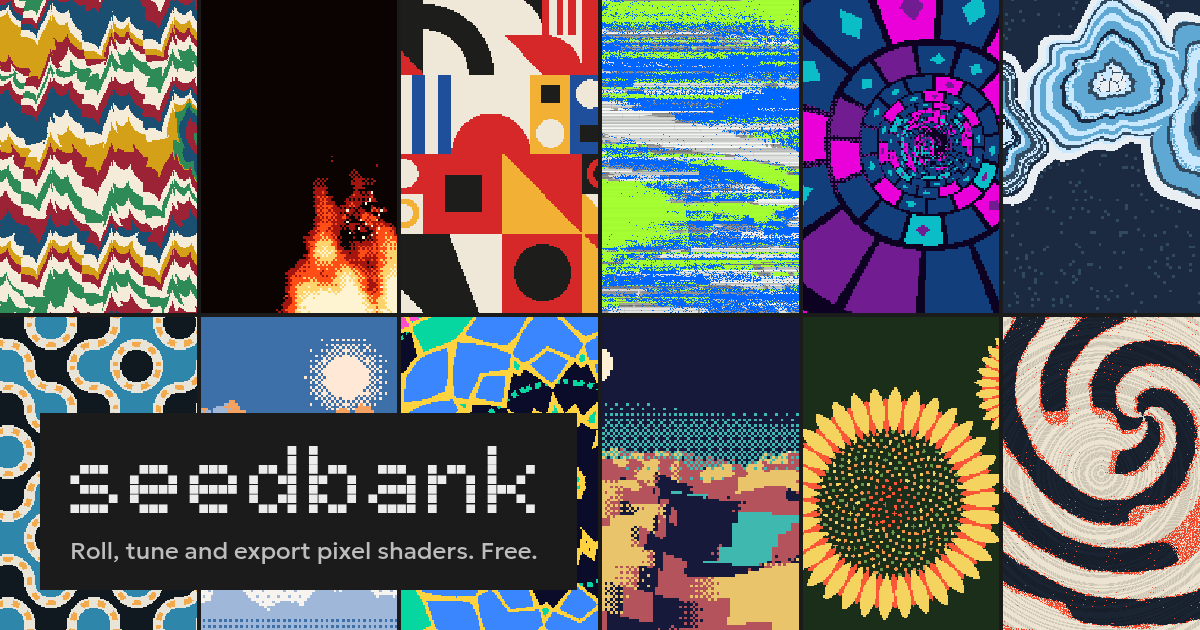
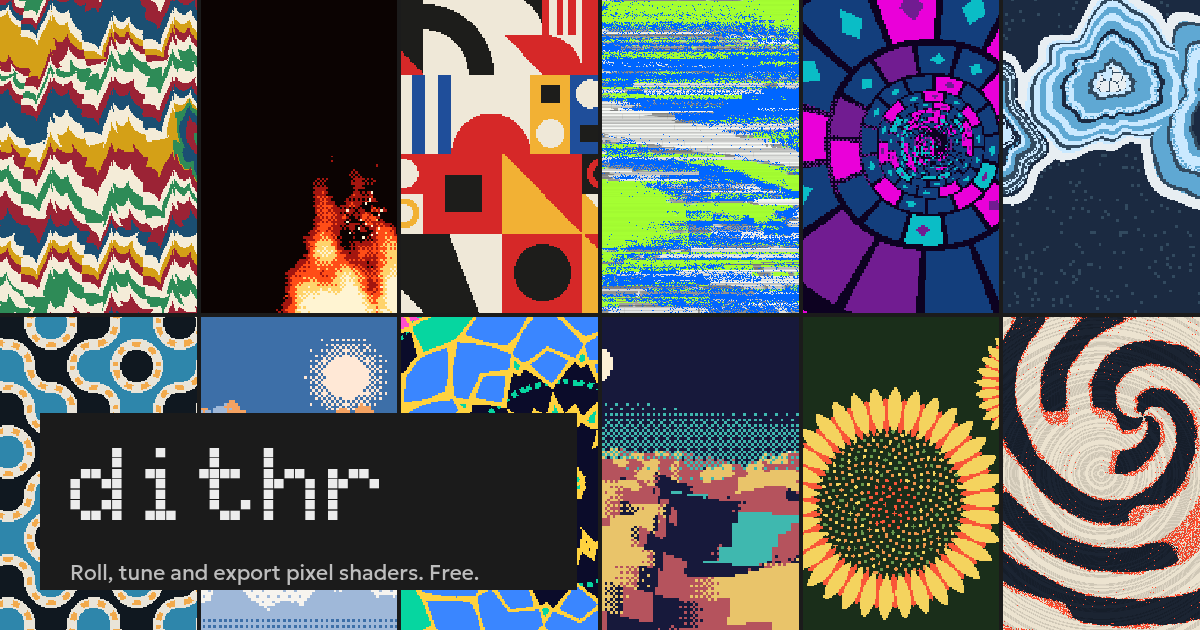
Rename the public product to Dithr
Wordmark, titles, share image, README and docs. Internal module names and the
saved-recipe storage key are unchanged so exports and saved designs keep working.

Changed region(s): [[0.0617, 0.6937, 0.4625, 0.9349]]

diff --git a/app/page.tsx b/app/page.tsx
@@ -247,7 +247,7 @@ export default function Studio() {
     <header className="topbar">
       {/* A full reload is intentional: it starts a fresh session with a new random study. */}
       {/* eslint-disable-next-line @next/next/no-html-link-for-pages */}
-      <a className="wordmark" href="/" aria-label="Shader Seedbank, start over"><span className="wordmark-pixels" aria-hidden="true">{Array.from({ length: 9 }, (_, i) => <i key={i}/>)}</span><span className="wordmark-text">seedbank</span></a>
+      <a className="wordmark" href="/" aria-label="Dithr, start over"><span className="wordmark-pixels" aria-hidden="true">{Array.from({ length: 9 }, (_, i) => <i key={i}/>)}</span><span className="wordmark-text">dithr</span></a>
       <nav className="topnav" aria-label="Browse">
         <button className="btn" aria-expanded={drawer === 'studies'} onClick={() => setDrawer('studies')}>Studies <span className="count">{presets.length}</span></button>
         <button className="btn" aria-expanded={drawer === 'palettes'} onClick={() => setDrawer('palettes')}>Palettes <span className="count">{palettePresets.length}</span></button>

diff --git a/app/layout.tsx b/app/layout.tsx
@@ -5,9 +5,9 @@ import './studio.css';
 const site = process.env.SEEDBANK_SITE_URL ?? (process.env.VERCEL_PROJECT_PRODUCTION_URL ? `https://${process.env.VERCEL_PROJECT_PRODUCTION_URL}` : undefined);
 export const metadata: Metadata = {
   ...(site ? { metadataBase: new URL(site) } : {}),
-  title: 'Shader Seedbank: roll and export pixel shaders',
+  title: 'Dithr: roll and export pixel shaders',
   icons: { icon: '/favicon.svg' },
-  openGraph: { title: 'Shader Seedbank', description: 'Roll, tune and export crisp-pixel animated shaders. Free: PNG, video, React or plain JavaScript.', images: [{ url: '/og.png', width: 1200, height: 630 }] },
+  openGraph: { title: 'Dithr', description: 'Roll, tune and export crisp-pixel animated shaders. Free: PNG, video, React or plain JavaScript.', images: [{ url: '/og.png', width: 1200, height: 630 }] },
   twitter: { card: 'summary_large_image', images: ['/og.png'] },
   description: 'A free generator for animated, crisp-pixel shaders. Roll a study and a palette, tune it, then export PNG, video, React or plain JavaScript. Ninety studies and 729 palettes.',
 };

diff --git a/app/demos/page.tsx b/app/demos/page.tsx
@@ -69,8 +69,8 @@ surface.render(recipe.time); // the curated frozen moment
   return <div className="studio context-page" style={themeStyle}>
     <header className="topbar">
       {/* eslint-disable-next-line @next/next/no-html-link-for-pages */}
-      <a className="wordmark" href="/" aria-label="Shader Seedbank studio"><span className="wordmark-pixels" aria-hidden="true">{Array.from({ length: 9 }, (_, i) => <i key={i}/>)}</span><span className="wordmark-text">seedbank</span></a>
-      <nav className="topnav" aria-label="Seedbank">
+      <a className="wordmark" href="/" aria-label="Dithr studio"><span className="wordmark-pixels" aria-hidden="true">{Array.from({ length: 9 }, (_, i) => <i key={i}/>)}</span><span className="wordmark-text">dithr</span></a>
+      <nav className="topnav" aria-label="Dithr">
         {/* eslint-disable-next-line @next/next/no-html-link-for-pages */}
         <a className="btn" href="/">Studio</a>
         <a className="btn" href="/demos" aria-current="page">In context <span className="count">{demos.length}</span></a>

diff --git a/src/workbench/export.ts b/src/workbench/export.ts
@@ -57,7 +57,7 @@ export function exampleHtml(settings: OutputSettings) {
   const { width, height } = validateOutput(settings);
   return `<!doctype html>
 <html lang="en"><meta charset="utf-8"><meta name="viewport" content="width=device-width,initial-scale=1">
-<title>Shader Seedbank export</title>
+<title>Dithr export</title>
 <style>body{margin:0;background:#151b19;color:#f5f3ec;font:14px system-ui;display:grid;place-items:center;min-height:100svh}main{width:min(100%,${width}px)}canvas{display:block;width:100%;height:auto;aspect-ratio:${width}/${height};image-rendering:pixelated}button{margin:16px 0;padding:10px 24px;cursor:pointer}#error{white-space:pre-wrap}</style>
 <main><canvas id="shader" width="${width}" height="${height}" aria-label="Animated shader"></canvas><button id="play">Play</button><p id="error" role="alert"></p></main>
 <script type="module">import('./main.js').catch(error=>{document.querySelector('#error').textContent='Could not start shader: '+error.message;});</script></html>
